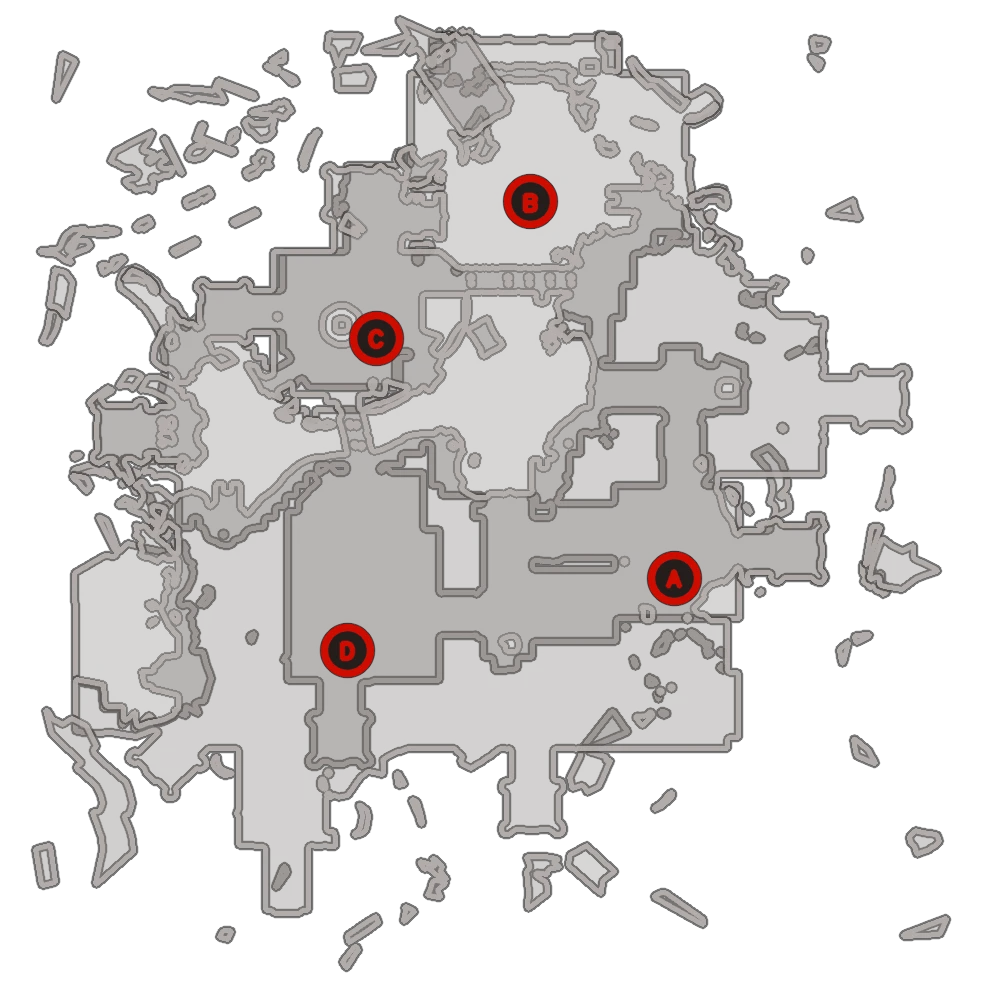
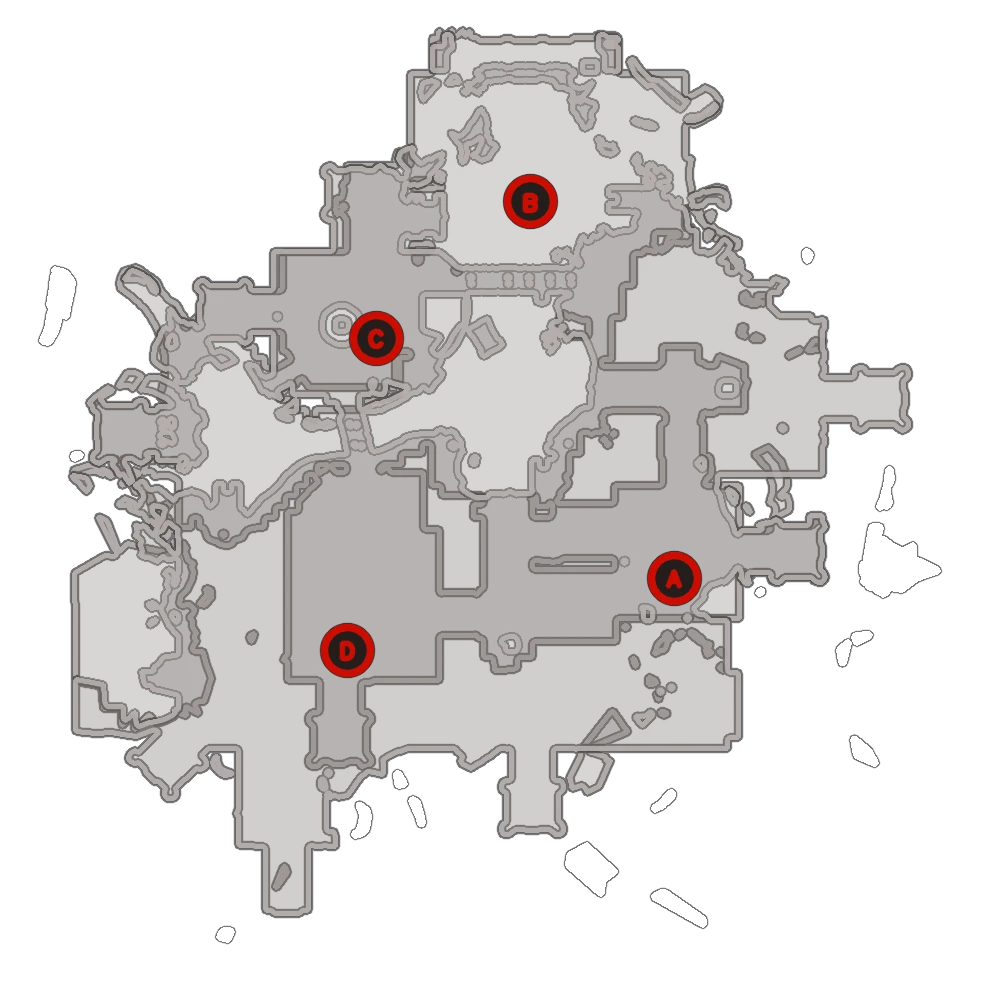
Fix Corpus Outpost analyzer minimaps

diff --git a/analyzer/index.html b/analyzer/index.html
@@ -156,7 +156,7 @@
   </div>
 
   <script src="./html2canvas.min.js"></script>
-  <script src="./minimaps/catalog-20260821-9.js"></script>
+  <script src="./minimaps/catalog-20260821-11.js"></script>
   <script src="./parser.js?v=20260820-67"></script>
   <script src="./tier-data.js?v=20260816-2"></script>
   <script src="./spawn-alignment.js?v=20260820-1"></script>

diff --git a/analyzer/tools/build_game_minimaps.py b/analyzer/tools/build_game_minimaps.py
@@ -18,7 +18,7 @@ import cv2
 import numpy as np
 
 
-IMMUTABLE_CATALOG_FILENAME = "catalog-20260821-9.js"
+IMMUTABLE_CATALOG_FILENAME = "catalog-20260821-11.js"
 
 
 GROUP_NODES = {
@@ -243,6 +243,60 @@ GAS_SPAWN_02_GROUP = "callisto+sinai+io~2"
 GAS_CITY_RENDER_BANDS = 3
 GAS_CITY_MAIN_ROOM_HEIGHTS = (-17.947, -6.0, 4.0)
 GAS_SPAWN_02_SIDE_ROOM_HEIGHTS = (-17.947, -3.947, 12.5)
+KADESH_DEFENSE_GROUP = "alator+kadesh+spear"
+CORPUS_OUTPOST_DEFENSE_GROUP = "sechura+tessera+outer_terminus+cerberus"
+CORPUS_OUTPOST_HEIGHT_BAND_INDICES = {
+    CORPUS_OUTPOST_DEFENSE_GROUP: (0, 1),
+    f"{CORPUS_OUTPOST_DEFENSE_GROUP}~2": (0, 1),
+    f"{CORPUS_OUTPOST_DEFENSE_GROUP}~3": (0, 1, 2),
+}
+CORPUS_OUTPOST_RETAIN_SPAWN_COMPONENTS = {
+    CORPUS_OUTPOST_DEFENSE_GROUP,
+    f"{CORPUS_OUTPOST_DEFENSE_GROUP}~3",
+}
+CORPUS_OUTPOST_SPAWN_ONLY_BAND_INDICES = {
+    f"{CORPUS_OUTPOST_DEFENSE_GROUP}~3": {1, 3},
+}
+# The small Defense layout has three real raised platforms and one short
+# catwalk inside the central courtyard. Their tops either disconnect from the
+# surrounding floor or merge into it in a flattened projection, and none has a
+# spawn marker of its own. Select each source-mesh component at its exact floor
+# height so its perimeter remains legible without drawing any outline by hand.
+CORPUS_OUTPOST_COMPONENT_BAND_ANCHORS = {
+    CORPUS_OUTPOST_DEFENSE_GROUP: {
+        7.0: (
+            (-8.5, 7.0, -7.0),
+            (-27.5, 7.0, -7.0),
+        ),
+        8.5: ((-22.4, 8.5, -26.6),),
+        9.5: ((-1.5, 9.5, -30.1),),
+    },
+}
+CORPUS_OUTPOST_COMPONENT_ANCHORS = {
+    group_id: tuple(
+        point
+        for band_anchors in anchors_by_height.values()
+        for point in band_anchors
+    )
+    for group_id, anchors_by_height in (
+        CORPUS_OUTPOST_COMPONENT_BAND_ANCHORS.items()
+    )
+}
+CORPUS_OUTPOST_COMPONENT_ONLY_HEIGHTS = {
+    group_id: tuple(anchors_by_height)
+    for group_id, anchors_by_height in (
+        CORPUS_OUTPOST_COMPONENT_BAND_ANCHORS.items()
+    )
+}
+CORPUS_OUTPOST_COMPONENT_ONLY_TOLERANCE = 0.5
+# The authored 40 m and 44 m spawn rows are joined by intermediate objective
+# heights, so generic clustering collapses them into one 40.05 m band. Restore
+# the distinct 44 m right-side floor explicitly and keep only its spawn-touched
+# source-mesh components below.
+CORPUS_OUTPOST_ADDITIONAL_HEIGHTS = {
+    f"{CORPUS_OUTPOST_DEFENSE_GROUP}~3": (44.0,),
+}
+CORPUS_OUTPOST_ADDITIONAL_HEIGHT_TOLERANCE = 0.9
 OROKIN_TOWER_DEFENSE_GROUP = "mithra+taranis+belenus"
 OROKIN_TOWER_CEILING_BAND_MIN_HEIGHT = 2.0
 CORPUS_SHIP_DEFENSE_GROUP = "cytherean+xini+gulliver+romula+proteus"
@@ -498,10 +552,11 @@ def render_map(
         # side of the displayed map, while world +Z runs upward.
         result[:, 0] = size - result[:, 0]
         result[:, 1] = size - result[:, 1]
-        if group_id == CORPUS_SHIP_DEFENSE_GROUP:
+        if group_id in (CORPUS_SHIP_DEFENSE_GROUP, KADESH_DEFENSE_GROUP):
             # This arena reads more naturally in the same clockwise orientation
             # players use for its in-game minimap. Rotate geometry, baked
-            # objective markers, and the exported spawn matrix together.
+            # objective markers, and the exported spawn matrix together;
+            # objective letters are drawn afterward and remain upright.
             base = result.copy()
             result[:, 0] = size - base[:, 1]
             result[:, 1] = base[:, 0]
@@ -513,6 +568,57 @@ def render_map(
             result[:, 0] = base[:, 1]
             result[:, 1] = size - base[:, 0]
         return np.rint(result).astype(np.int32)
+
+    def components_near_spawns(
+        labels: np.ndarray,
+        target_height: float | None = None,
+        radius: int = 12,
+    ) -> set[int]:
+        retained: set[int] = set()
+        for item in map_spawns:
+            if (
+                target_height is not None
+                and abs(float(item.get("y", 0.0)) - target_height) > 3.4
+            ):
+                continue
+            point = np.asarray(
+                [[item["x"], item.get("y", 0.0), item["z"]]],
+                dtype=np.float32,
+            )
+            x, y = project(point)[0]
+            x = int(np.clip(x, 0, size - 1))
+            y = int(np.clip(y, 0, size - 1))
+            nearby = labels[
+                max(0, y - radius) : min(size, y + radius + 1),
+                max(0, x - radius) : min(size, x + radius + 1),
+            ]
+            retained.update(
+                int(component)
+                for component in np.unique(nearby)
+                if component
+            )
+        return retained
+
+    def components_near_world_points(
+        labels: np.ndarray,
+        points: tuple[tuple[float, float, float], ...],
+        radius: int = 12,
+    ) -> set[int]:
+        retained: set[int] = set()
+        for point in points:
+            x, y = project(np.asarray([point], dtype=np.float32))[0]
+            x = int(np.clip(x, 0, size - 1))
+            y = int(np.clip(y, 0, size - 1))
+            nearby = labels[
+                max(0, y - radius) : min(size, y + radius + 1),
+                max(0, x - radius) : min(size, x + radius + 1),
+            ]
+            retained.update(
+                int(component)
+                for component in np.unique(nearby)
+                if component
+            )
+        return retained
 
     # Transparent RGBA output: the Analyzer card supplies the neutral backdrop.
     # Each height band is unioned into a silhouette before contouring so the
@@ -543,6 +649,23 @@ def render_map(
             ) * 0.5
     elif group_id == HYF_DEFENSE_GROUP:
         heights = list(HYF_PLAYABLE_FLOOR_HEIGHTS)
+    elif group_id in CORPUS_OUTPOST_HEIGHT_BAND_INDICES:
+        heights = [
+            heights[index]
+            for index in CORPUS_OUTPOST_HEIGHT_BAND_INDICES[group_id]
+            if index < len(heights)
+        ]
+        component_heights = CORPUS_OUTPOST_COMPONENT_ONLY_HEIGHTS.get(
+            group_id, ()
+        )
+        if component_heights:
+            heights = [heights[0], *component_heights, *heights[1:]]
+        heights = sorted(
+            [
+                *heights,
+                *CORPUS_OUTPOST_ADDITIONAL_HEIGHTS.get(group_id, ()),
+            ]
+        )
     chunk_size = 160_000
     geometry_sources = [(positions, faces, "all")]
     if group_id == GAS_SPAWN_02_GROUP and main_room_geometry is not None:
@@ -553,15 +676,36 @@ def render_map(
         ]
 
     for band_index, height in enumerate(heights):
+        conceal_underlay = None
+        component_only_band = any(
+            abs(height - target_height) < 0.01
+            for target_height in CORPUS_OUTPOST_COMPONENT_ONLY_HEIGHTS.get(
+                group_id, ()
+            )
+        )
+        additional_height_band = any(
+            abs(height - target_height) < 0.01
+            for target_height in CORPUS_OUTPOST_ADDITIONAL_HEIGHTS.get(
+                group_id, ()
+            )
+        )
         gas_spawn_02_side_height = (
             gas_spawn_02_side_heights[band_index]
             if gas_spawn_02_side_heights is not None
             else None
         )
         height_tolerance = (
-            HYF_ADDITIONAL_FLOOR_TOLERANCE
-            if group_id == HYF_DEFENSE_GROUP and band_index > 0
-            else 3.0
+            CORPUS_OUTPOST_COMPONENT_ONLY_TOLERANCE
+            if component_only_band
+            else (
+                CORPUS_OUTPOST_ADDITIONAL_HEIGHT_TOLERANCE
+                if additional_height_band
+                else (
+                    HYF_ADDITIONAL_FLOOR_TOLERANCE
+                    if group_id == HYF_DEFENSE_GROUP and band_index > 0
+                    else 3.0
+                )
+            )
         )
         mask = np.zeros((size, size), dtype=np.uint8)
         recover_gas_spawn_02_stairs = (
@@ -670,6 +814,73 @@ def render_map(
             for closet in GAS_SPAWN_02_SPAWN_CLOSETS:
                 floor = project(closet).reshape((-1, 1, 2))
                 cv2.fillPoly(mask, [floor], 255, lineType=cv2.LINE_AA)
+        if (
+            band_index
+            in CORPUS_OUTPOST_SPAWN_ONLY_BAND_INDICES.get(group_id, set())
+        ):
+            # This intermediate band contains two real detached spawn rooms plus
+            # broad overhead framework. Keep only mesh components touched by
+            # spawn points authored at this same height.
+            mask = cv2.morphologyEx(
+                mask,
+                cv2.MORPH_CLOSE,
+                cv2.getStructuringElement(cv2.MORPH_ELLIPSE, (3, 3)),
+            )
+            count, labels, _, _ = cv2.connectedComponentsWithStats(
+                (mask > 0).astype(np.uint8), 8
+            )
+            retained = components_near_spawns(labels, target_height=height)
+            if count > 1:
+                mask[~np.isin(labels, list(retained))] = 0
+        if component_only_band:
+            # Redraw each reviewed platform/catwalk top as its own height layer
+            # so its contour remains legible over the lower courtyard floor.
+            # Selection is by source-mesh component, never by a hand-drawn
+            # silhouette.
+            mask = cv2.morphologyEx(
+                mask,
+                cv2.MORPH_CLOSE,
+                cv2.getStructuringElement(cv2.MORPH_ELLIPSE, (3, 3)),
+            )
+            count, labels, _, _ = cv2.connectedComponentsWithStats(
+                (mask > 0).astype(np.uint8), 8
+            )
+            anchors_by_height = CORPUS_OUTPOST_COMPONENT_BAND_ANCHORS.get(
+                group_id, {}
+            )
+            band_anchors = next(
+                (
+                    anchors
+                    for target_height, anchors in anchors_by_height.items()
+                    if abs(height - target_height) < 0.01
+                ),
+                (),
+            )
+            retained = components_near_world_points(labels, band_anchors)
+            if count > 1:
+                mask[~np.isin(labels, list(retained))] = 0
+            if (
+                group_id == CORPUS_OUTPOST_DEFENSE_GROUP
+                and abs(height - 9.5) < 0.01
+                and band_anchors
+            ):
+                # Lower height slices show through this translucent platform
+                # as four stray radial lines on the tower's right side. Cover
+                # only that part of the real 9.5 m platform mask; its center,
+                # left opening, outer outline, and separate catwalk stay intact.
+                tower_x, tower_y = project(
+                    np.asarray([band_anchors[0]], dtype=np.float32)
+                )[0]
+                pixel_y, pixel_x = np.ogrid[:size, :size]
+                distance_squared = (
+                    (pixel_x - tower_x) ** 2 + (pixel_y - tower_y) ** 2
+                )
+                conceal_underlay = (
+                    (mask > 0)
+                    & (pixel_x > tower_x + 8)
+                    & (distance_squared > 42 ** 2)
+                    & (distance_squared < 92 ** 2)
+                )
         if group_id == CORPUS_SHIP_DEFENSE_GROUP and band_index == len(heights) - 1:
             for room in CORPUS_SHIP_RUNTIME_SPAWN_ROOMS:
                 floor = project(room).reshape((-1, 1, 2))
@@ -743,6 +954,9 @@ def render_map(
             ).astype(np.uint8)
             image[:, :, 3] = np.maximum(image[:, :, 3], shadow[:, :, 3])
 
+        if conceal_underlay is not None:
+            band_layer[conceal_underlay, 3] = 255
+
         source_alpha = band_layer[:, :, 3:4].astype(np.float32) / 255.0
         target_alpha = image[:, :, 3:4].astype(np.float32) / 255.0
         out_alpha = source_alpha + target_alpha * (1.0 - source_alpha)
@@ -771,6 +985,32 @@ def render_map(
         for component in range(1, count):
             if int(stats[component, cv2.CC_STAT_AREA]) < CORPUS_SHIP_MIN_CONNECTED_AREA:
                 image[labels == component] = 0
+
+    if group_id in CORPUS_OUTPOST_HEIGHT_BAND_INDICES:
+        # These source meshes contain detached ceiling, framework, and prop
+        # islands around the playable floor. After the reviewed band selection,
+        # retain the single connected arena and remove isolated projected debris
+        # before drawing objective letters.
+        # Use visible floor/contour pixels rather than alpha: black perimeter
+        # shadows can bridge two nearby pieces even when the floors are visibly
+        # detached from one another.
+        component_mask = (image[:, :, :3].max(axis=2) > 0).astype(np.uint8)
+        count, labels, stats, _ = cv2.connectedComponentsWithStats(
+            component_mask, 8
+        )
+        if count > 1:
+            largest = 1 + int(np.argmax(stats[1:, cv2.CC_STAT_AREA]))
+            retained_components = {largest}
+            if group_id in CORPUS_OUTPOST_RETAIN_SPAWN_COMPONENTS:
+                retained_components.update(components_near_spawns(labels))
+            retained_components.update(
+                components_near_world_points(
+                    labels,
+                    CORPUS_OUTPOST_COMPONENT_ANCHORS.get(group_id, ()),
+                )
+            )
+            retain = np.isin(labels, list(retained_components))
+            image[(labels != 0) & ~retain] = 0
 
     territory = [
         item for item in map_objective
@@ -827,6 +1067,10 @@ def render_map(
         "stofler": "bottom-floor-20260816",
         GAS_SPAWN_04_GROUP: "three-band-20260821",
         GAS_SPAWN_02_GROUP: "shared-main-mesh-stairs-20260821",
+        KADESH_DEFENSE_GROUP: "clockwise-20260821",
+        CORPUS_OUTPOST_DEFENSE_GROUP: "raised-platforms-catwalk-trimmed-20260821",
+        f"{CORPUS_OUTPOST_DEFENSE_GROUP}~2": "clean-floor-20260821",
+        f"{CORPUS_OUTPOST_DEFENSE_GROUP}~3": "right-spawn-floor-20260821",
         OROKIN_TOWER_DEFENSE_GROUP: "ceiling-trim-20260820",
         CORPUS_SHIP_DEFENSE_GROUP: "runtime-side-rooms-20260821",
         HYDRON_DEFENSE_GROUP: "counterclockwise-20260821",
@@ -843,7 +1087,7 @@ def render_map(
                 0.0, round(scale, 9), round(float(pad[1] - lo[1] * scale), 9),
                 round(-scale, 9), 0.0, round(float(size + lo[0] * scale - pad[0]), 9),
             ]
-            if group_id == CORPUS_SHIP_DEFENSE_GROUP
+            if group_id in (CORPUS_SHIP_DEFENSE_GROUP, KADESH_DEFENSE_GROUP)
             else (
                 [
                     0.0, round(-scale, 9),
